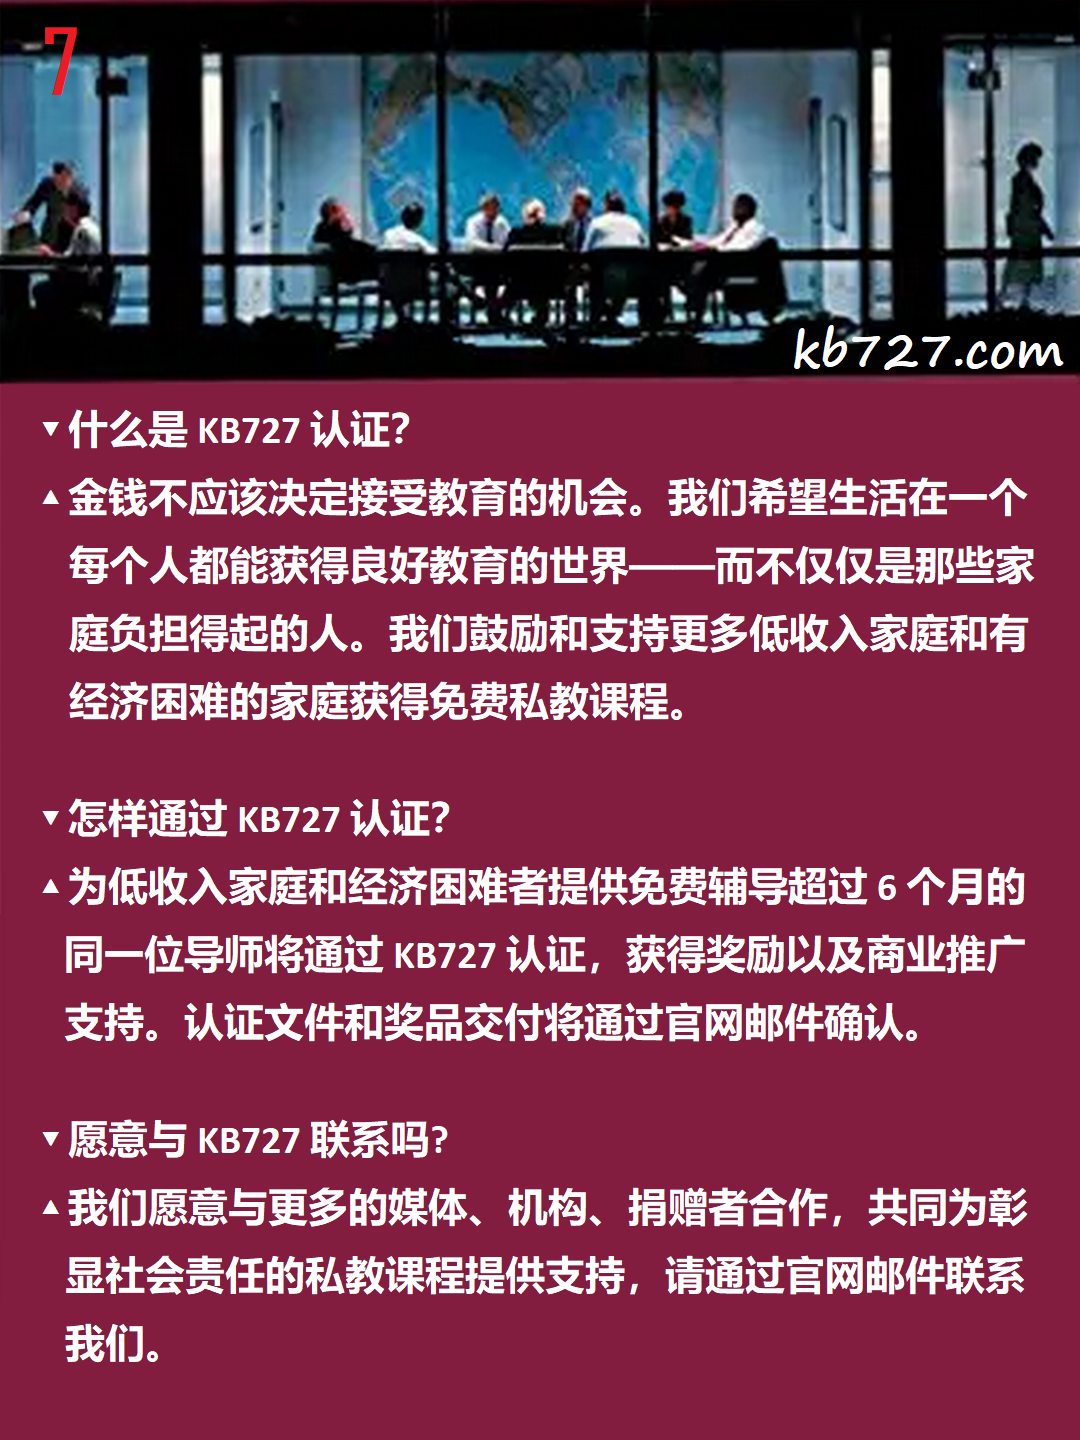
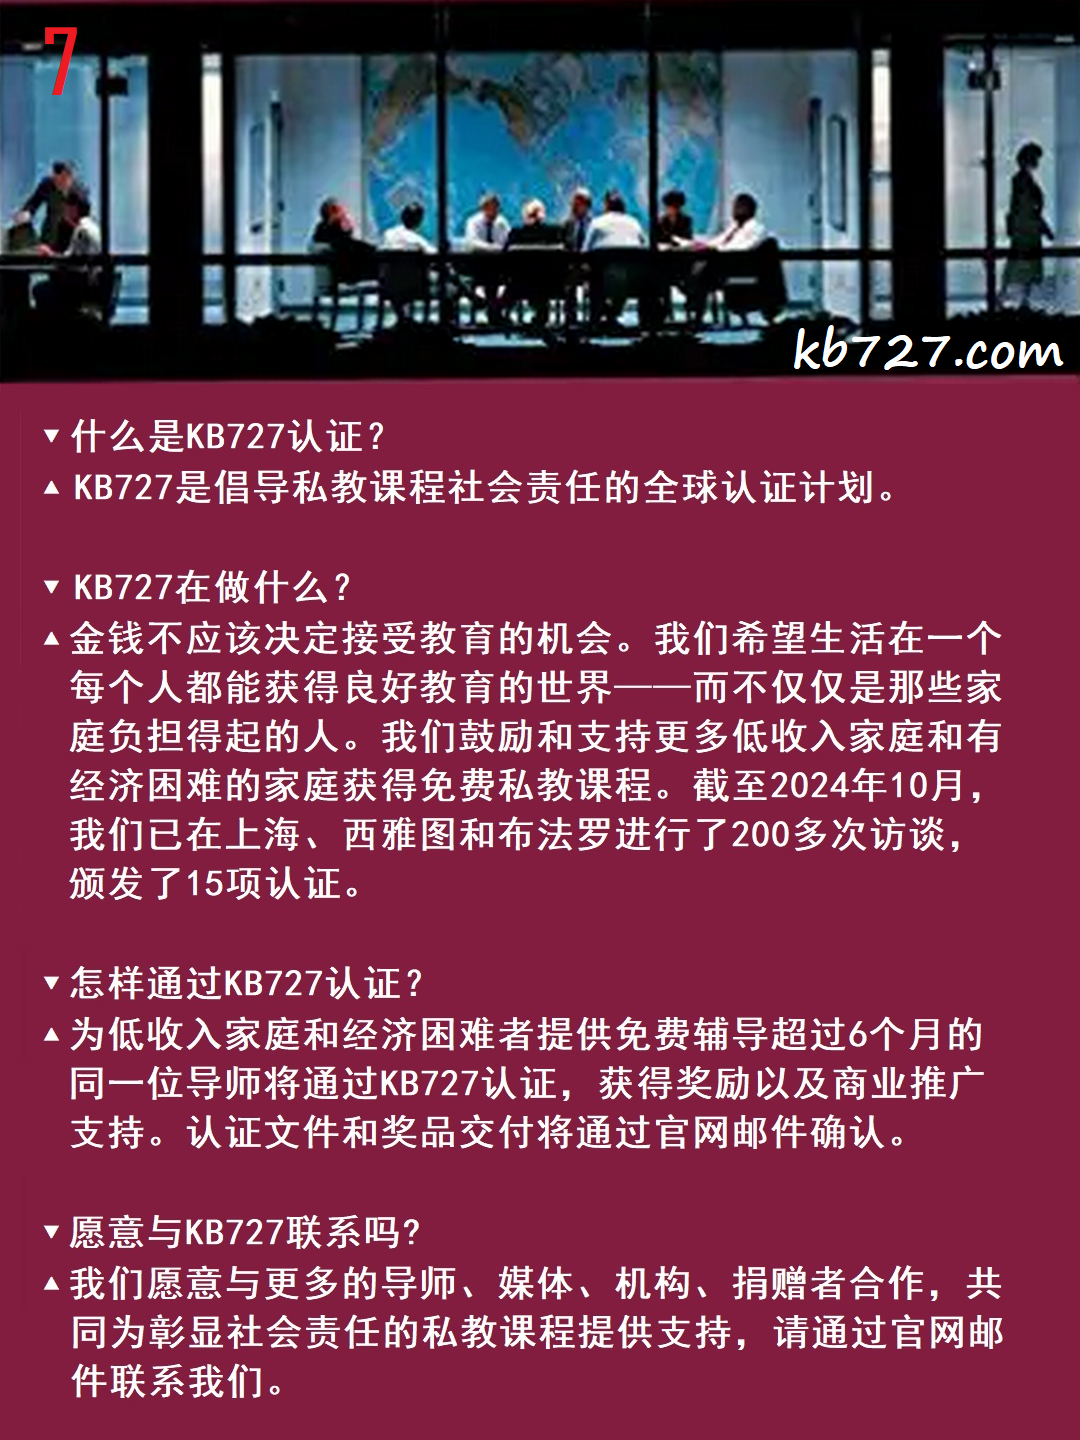
20241110

Changed region(s): [[0.0306, 0.2812, 0.9778, 0.9688]]

diff --git a/index.html b/index.html
@@ -80,7 +80,7 @@
             <div class="col-md-12 text-center">
                 <h2 style="text-align: left"><b>简介</b></h2>
                 <p class="lead" style="text-align: left">
-                &emsp;&emsp;KB727® 是倡导私教课程社会责任的全球认证计划。截至 2024 年 10 月，我们已在上海、西雅图和布法罗进行了 200 多次访谈，并颁发了 15 项认证。
+                &emsp;&emsp;KB727® 是倡导私教课程社会责任的全球认证计划。截至 2024 年 10 月，我们已在上海、西雅图和布法罗进行了 200 多次访谈，颁发了 15 项认证。
                 </br></br>
                 &emsp;&emsp;通过预约访谈、深入交流，我们接触到很多高品质的私教课程、一对一的资深导师，从 K-12 阅读理解、基础数学、微积分、化学到 TOEFL-IBT 考试再到游泳、健身，私教课程已经超出了学生学业学科的范围：您还可以在专业考试和论文、写简历或求职面试等多方面获得资深导师的帮助。许多导师在其擅长的学科领域拥有高级学位和专业经验，拥有如此多的脑力，谁会不愿意让私教课程为自己的发展和前途接力呢？
                 </br></br>
